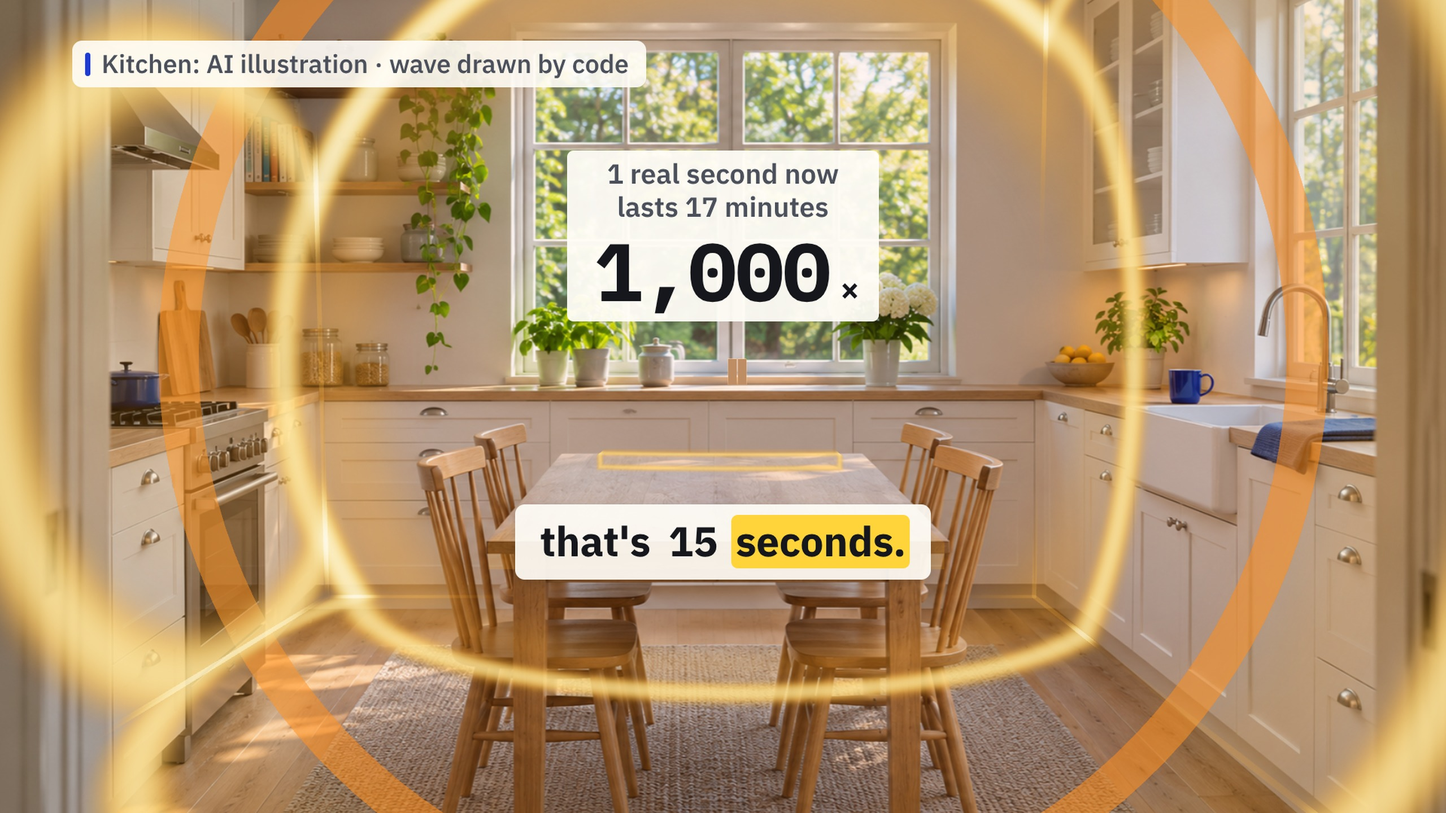
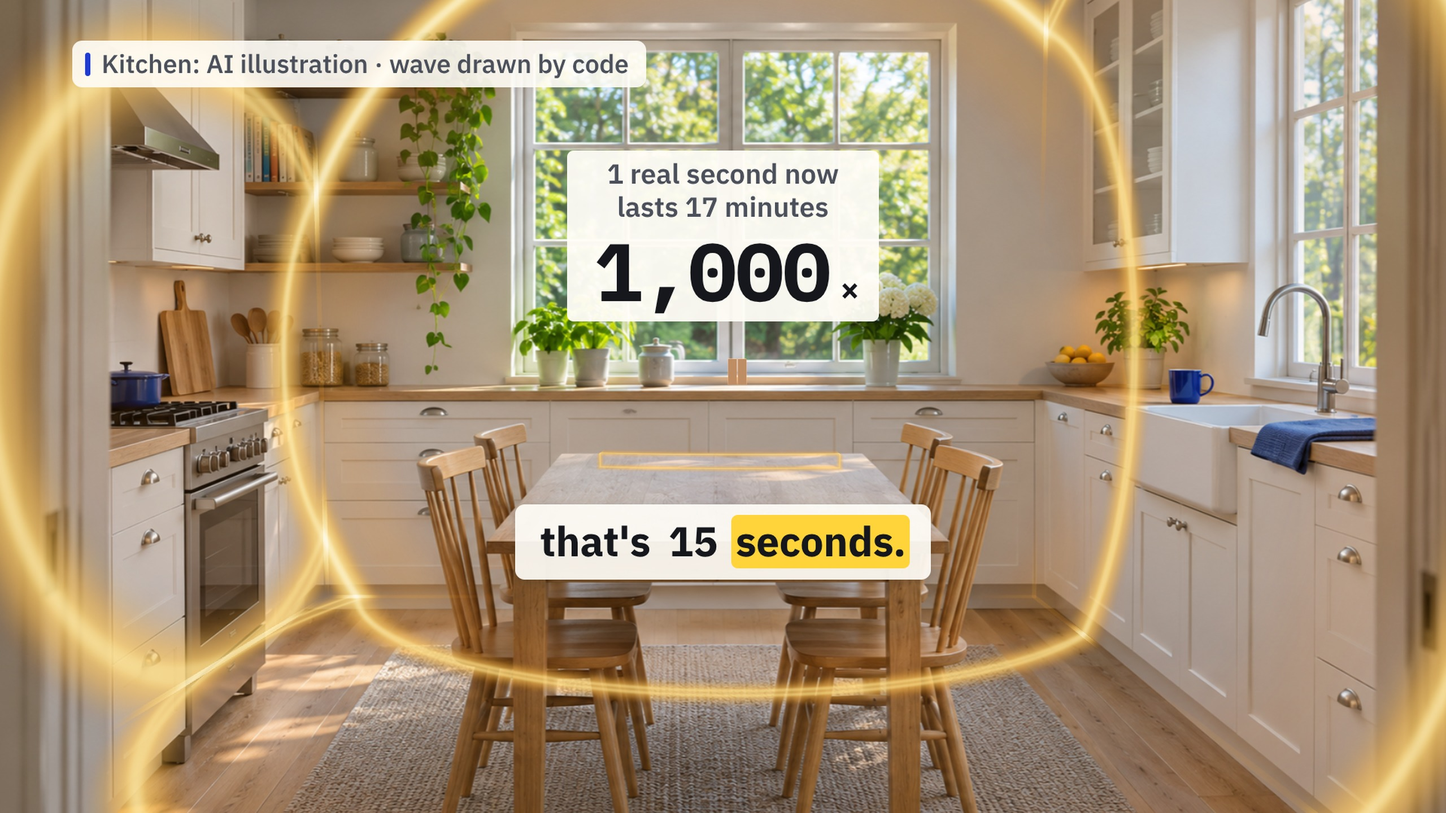
Plate-01: no billboard ring, thin gold edge with half the glow, one warm tint, +5% luminance
Claude-Session: https://claude.ai/code/session_0192s8Y3nHgGCCsvNARxNLPn

diff --git a/films/channels/physics/lf01/build.py b/films/channels/physics/lf01/build.py
@@ -284,7 +284,7 @@ PLATE01 = "../lf01/art/owner/plates/plate-01-wide-16x9.png"
 PLATE01_9 = "../lf01/art/owner/plates/plate-01-wide-9x16.png" if (HERE / "art/owner/plates/plate-01-wide-9x16.png").exists() else PLATE01
 _p01 = {"id": "wide", "file": PLATE01, "file9": PLATE01_9, "push": 0.06, "parallax": 0, "fade": 0.35,
         "cam3": {"pos": [0, 1.06, 0], "target": [0, 1.001, -1], "fov": 50.4},
-        "anchor": {"pos": [0.05, 1.0, -3.1], "mirror": [0.05, 1.0, -4.5], "proxy": True, "tint": [[0.5, 0.3, 0.08], [0.38, 0.2, 0.04], 0xE89030, 0xB07020]}}
+        "anchor": {"pos": [0.05, 1.0, -3.1], "mirror": [0.05, 1.0, -4.5], "proxy": True, "tint": [[0.62, 0.45, 0.14], [0.62, 0.45, 0.14], 0xE8B84A, 0xE8B84A]}}
 if PART == 1 and (HERE / "art/owner/plates/plate-02-feeder-16x9.png").exists():
     PLATES = [dict(_p02, t0=0.0, t1=R(W("wings", "But") - 0.2))]
 elif PART == 2 and (HERE / "art/owner/plates/plate-03-tap-mug-clean-16x9.png").exists():
